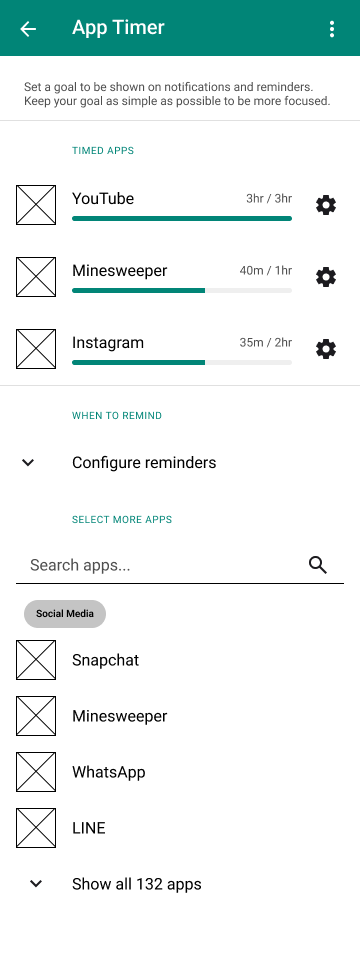
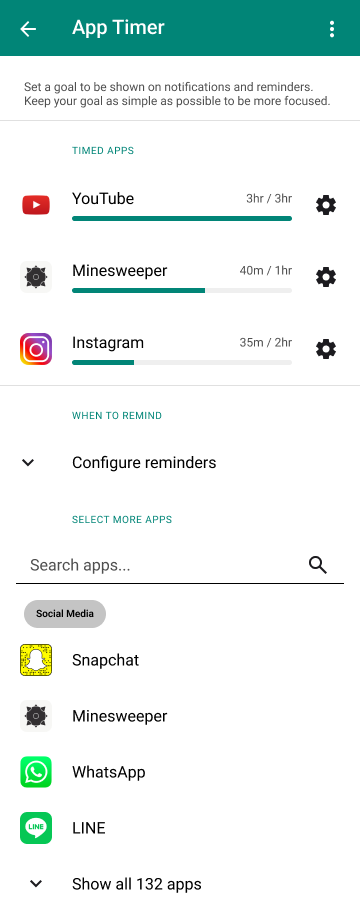
Updated hifi prototype

diff --git a/src/chapters/chapter-4.3.tex b/src/chapters/chapter-4.3.tex
@@ -127,7 +127,7 @@ Berikut ini disebutkan beberapa komponen desain yang sering digunakan pada proto
 Pengembangan prototipe \textit{high-fidelity} ini memiliki beberapa batasan agar pengembangan dapat fokus pada tujuan pengujian. Batasan-batasan pengembangan prototipe \textit{high-fidelity} adalah sebagai berikut
 
 \begin{enumerate}
-  \item Pengembangan prototipe \textit{high-fidelity} akan menggunakan \textit{prototyping tool} Figma.
+  \item Pengembangan prototipe \textit{high-fidelity} akan menggunakan kakas Figma.
   \item Data yang digunakan dalam prototipe berupa \textit{mock data} yang ditentukan oleh desainer.
   \item Prototipe dikembangkan untuk \textit{smartphone} berdimensi layar ukuran 360x800 pixel.
   \item Prototipe tidak mendukung kemampuan untuk input data kustom, bila komponen prototipe ditujukan untuk input data maka data yang ditunjukkan telah ditentukan oleh desainer.
@@ -139,57 +139,132 @@ Pengembangan prototipe \textit{high-fidelity} ini memiliki beberapa batasan agar
 \subsection{Implementasi Prototipe \textit{High-Fidelity}}
 \label{subsec:hifi_1_implementasi}
 
+% Berdasarkan rencana perbaikan pada Tabel \ref{tab:daftar_perbaikan_lofi}, analisis aspek antarmuka, dan batasan pengembangan, maka tampilan-tampilan prototipe \textit{low-fidelity} pada Tabel \ref{tab:daftar_lofi_halaman} dan Tabel \ref{tab:daftar_lofi_widget} akan dikembangkan dan diimplementasi menjadi prototipe \textit{high-fidelity}. Berikut adalah hasil implementasi prototipe \textit{high-fidelity} iterasi pertama.
+
+% \begin{enumerate}
+%   \item Main Menu
+%   \subitem Halaman ini adalah tampilan utama dari aplikasi Digital Wellbeing yang memuat navigasi utama ke fitur-fitur lainnya. Pada prototipe \textit{high-fidelity} terdapat perubahan pada bentuk menu navigasi menjadi lebih bundar agar lebih \textit{user-friendly}. Adapun implementasi ilustrasi untuk menu Focus Mode dan Bedtime Mode, dan ikon-ikon pada menu lainnya, menggantikan \textit{placeholder} pada tampilan \textit{low-fidelity}.
+  
+%   \begin{figure}[h]
+%     \centering
+%     \includegraphics[width=0.3\textwidth]{hifi/h-01}
+%     % \caption{Komponen \textit{dropdown}}
+%     % \label{img:dropdown}
+%   \end{figure}
+%   \FloatBarrier
+
+
+
+% \end{enumerate}
+
+% Tabel \ref{tab:daftar_hifi_halaman} memuat implementasi tampilan halaman prototipe \textit{high-fidelity}, sedangkan Tabel \ref{tab:daftar_hifi_widget} memuat implementasi tampilan untuk widget. Pada kedua tabel tersebut dimuat juga pemetaan prinsip desain tambahan terhadap prototipe \textit{high-fidelity}, serta penjelasan singkat tentang tampilan prototipe \textit{high-fidelity} dan perubahannya dari tampilan prototipe \textit{low-fidelity}.
+
 Berdasarkan rencana perbaikan pada Tabel \ref{tab:daftar_perbaikan_lofi}, analisis aspek antarmuka, dan batasan pengembangan, maka tampilan-tampilan prototipe \textit{low-fidelity} pada Tabel \ref{tab:daftar_lofi_halaman} dan Tabel \ref{tab:daftar_lofi_widget} akan dikembangkan dan diimplementasi menjadi prototipe \textit{high-fidelity}. Tabel \ref{tab:daftar_hifi_halaman} memuat implementasi tampilan halaman prototipe \textit{high-fidelity}, sedangkan Tabel \ref{tab:daftar_hifi_widget} memuat implementasi tampilan untuk widget. Pada kedua tabel tersebut dimuat juga pemetaan prinsip desain tambahan terhadap prototipe \textit{high-fidelity}, serta penjelasan singkat tentang tampilan prototipe \textit{high-fidelity} dan perubahannya dari tampilan prototipe \textit{low-fidelity}.
 
 
 \newlength{\hifiwidth}
 \setlength{\hifiwidth}{0.325\textwidth}
 
+\newlength{\hifidescwidth}
+\setlength{\hifidescwidth}{0.33\textwidth}
+
+\newcommand{\hifidesc}[1]{\desc{\hifidescwidth}{#1}}
+
 \newcommand{\hifi}[1]{\begin{center}\includegraphics[width=\hifiwidth]{#1}\end{center}}
 \newcommand{\hifiwidget}[2]{\begin{center}\includegraphics[width=#1]{#2}\end{center}}
 
 \RaggedLeft
 \begin{footnotesize}
-\begin{longtable}[c]{|>{\ccnormspacingcenter}p{0.12\textwidth}|>{\ccnormspacing}p{0.33\textwidth}|>{\ccnormspacingcenter}p{0.12\textwidth}|>{\ccnormspacingcenter}p{\hifiwidth}|}
+\begin{longtable}[c]{|>{\ccnormspacingcenter}p{0.12\textwidth}|>{\ccnormspacing}p{\hifidescwidth}|>{\ccnormspacingcenter}p{0.12\textwidth}|>{\ccnormspacingcenter}p{\hifiwidth}|}
   \caption{Daftar Tampilan Halaman Prototipe \textit{High-Fidelity}}
   \label{tab:daftar_hifi_halaman} \\
   \hline \rowcolor[HTML]{A3E5F5}
-  \centering\textbf{Halaman} & \centering\textbf{Penjelasan Halaman} & \centering\textbf{Prinsip Desain Tambahan} & \textbf{Prototipe \textit{High-Fidelity}} \\ \hline \endfirsthead
+  \centering\textbf{Halaman} & \centering\textbf{Penjelasan Halaman} & \centering\textbf{\textit{Goals}} & \textbf{Prototipe \textit{High-Fidelity}} \\ \hline \endfirsthead
   \hline \rowcolor[HTML]{A3E5F5}
-  \centering\textbf{Halaman} & \centering\textbf{Penjelasan Halaman} & \centering\textbf{Prinsip Desain Tambahan} & \textbf{Prototipe \textit{High-Fidelity}} \\ \hline \endhead
+  \centering\textbf{Halaman} & \centering\textbf{Penjelasan Halaman} & \centering\textbf{\textit{Goals}} & \textbf{Prototipe \textit{High-Fidelity}} \\ \hline \endhead
   \hline \endfoot
 
-  \textbf{H-01} Halaman Main Menu & Halaman ini adalah tampilan utama dari aplikasi Digital Wellbeing yang memuat navigasi utama ke fitur-fitur lainnya. Pada prototipe \textit{high-fidelity} terdapat perubahan pada bentuk menu navigasi menjadi lebih bundar agar lebih \textit{user-friendly}. Adapun implementasi ilustrasi untuk menu Focus Mode dan Bedtime Mode, dan ikon-ikon pada menu lainnya, menggantikan \textit{placeholder} pada tampilan \textit{low-fidelity}. & - & \hifi{hifi/h-01} \\ \hline
+  \textbf{H-01} Halaman Main Menu & 
+    \hifidesc{
+      Halaman ini adalah tampilan utama dari aplikasi Digital Wellbeing yang memuat navigasi utama ke fitur-fitur lainnya. Pada prototipe \textit{high-fidelity} terdapat perubahan pada bentuk menu navigasi menjadi lebih bundar agar lebih \textit{user-friendly}. Adapun implementasi ilustrasi untuk menu Focus Mode dan Bedtime Mode, dan ikon-ikon pada menu lainnya, menggantikan \textit{placeholder} pada tampilan \textit{low-fidelity}.
+    } & \textit{Motivating} & \hifi{hifi/h-01} \\ \hline
   
-  \textbf{H-02} Halaman Dashboard & Halaman ini memuat seluruh data penggunaan \textit{smartphone}. Pada prototipe \textit{high-fidelity} terdapat penambahan warna untuk \textit{bar chart} agar memperjelas data yang sedang dipilih. Adapun pengubahan desain dari tombol penambahan App Group untuk memberikan perbedaan yang jelas dengan tombol navigasi ke halaman data penggunaan App Group & - & \hifi{hifi/h-02} \\ \hline
+  \textbf{H-02} Halaman Dashboard &
+    \hifidesc{
+      Halaman ini memuat seluruh data penggunaan \textit{smartphone}. Pada prototipe \textit{high-fidelity} terdapat penambahan warna untuk \textit{bar chart} agar memperjelas data yang sedang dipilih. \newline 
+      Adapun pengubahan desain dari tombol penambahan App Group untuk memberikan perbedaan yang jelas dengan tombol navigasi ke halaman data penggunaan App Group
+    }
+  & - & \hifi{hifi/h-02} \\ \hline
   
-  \textbf{H-03} Halaman App Timer & Halaman ini berisi daftar App Timer yang telah dipasang oleh pengguna, dan daftar aplikasi lain. Pada prototipe \textit{high-fidelity}, menu konfigurasi pengingat App Timer disembunyikan di dalam komponen \textit{dropdown} untuk mengurangi kompleksitas visual. Selain itu, ada juga penambahan bagian yang memuat daftar App Group yang sudah dibuat, memindahkan lokasi App Group dari dalam daftar aplikasi. & - & \hifi{hifi/h-03} \\ \hline
+  \textbf{H-03} Halaman App Timer & 
+    \hifidesc{
+      Halaman ini berisi daftar App Timer yang telah dipasang oleh pengguna, dan daftar aplikasi lain. Pada prototipe \textit{high-fidelity}, menu konfigurasi pengingat App Timer disembunyikan di dalam komponen \textit{dropdown} untuk mengurangi kompleksitas visual. Selain itu, ada juga penambahan bagian yang memuat daftar App Group yang sudah dibuat, memindahkan lokasi App Group dari dalam daftar aplikasi.
+    } & - & \hifi{hifi/h-03} \\ \hline
   
-  \textbf{H-04} Halaman Daily Goal & Di halaman ini, pengguna dapat menentukan Daily Goal atau tujuan harian yang ingin ditempuh dan dibantu diingatkan oleh aplikasi Digital Wellbeing. Pada prototipe \textit{high-fidelity} terdapat penambahan penjelasan untuk fitur-fitur pengingat Daily Goal agar lebih mudah untuk dimengerti. Adapun penambahan ikon untuk fitur Daily Goal agar tampilan tidak terasa kaku & - & \hifi{hifi/h-04} \\ \hline
+  \textbf{H-04} Halaman Daily Goal & 
+    \hifidesc{
+      Di halaman ini, pengguna dapat menentukan Daily Goal atau tujuan harian yang ingin ditempuh dan dibantu diingatkan oleh aplikasi Digital Wellbeing. Pada prototipe \textit{high-fidelity} terdapat penambahan penjelasan untuk fitur-fitur pengingat Daily Goal agar lebih mudah untuk dimengerti. Adapun penambahan ikon untuk fitur Daily Goal agar tampilan tidak terasa kaku
+    } & - & \hifi{hifi/h-04} \\ \hline
   
-  \textbf{H-05} Halaman Focus Mode & Halaman ini memuat status dari keberjalanan Focus Mode serta aksi-aksi yang dapat dilakukan untuk menunda, mematikan, atau mengaktivasinya. Pada prototipe \textit{high-fidelity} terdapat penambahan daftar aplikasi untuk memilih aplikasi yang dinilai mendistraksi, daftar ini dapat dimanfaatkan jika pengguna ingin menyalakan fitur Focus Mode tanpa mengikuti jadwal. Adapun pemindahan lokasi navigasi ke halaman penambahan jadwal Focus Mode agar lebih mudah diakses jika terdapat banyak jadwal Focus Mode. & - & \hifi{hifi/h-05} \\ \hline
+  \textbf{H-05} Halaman Focus Mode & 
+    \hifidesc{
+      Halaman ini memuat status dari keberjalanan Focus Mode serta aksi-aksi yang dapat dilakukan untuk menunda, mematikan, atau mengaktivasinya. Pada prototipe \textit{high-fidelity} terdapat penambahan daftar aplikasi untuk memilih aplikasi yang dinilai mendistraksi, daftar ini dapat dimanfaatkan jika pengguna ingin menyalakan fitur Focus Mode tanpa mengikuti jadwal. Adapun pemindahan lokasi navigasi ke halaman penambahan jadwal Focus Mode agar lebih mudah diakses jika terdapat banyak jadwal Focus Mode.
+     } & - & \hifi{hifi/h-05} \\ \hline
   
-  \textbf{H-06} Halaman Bedtime Mode &  Pada halaman ini, pengguna dapat mengatur jadwal aktivasi Bedtime Mode menurut mode perilaku aktivasi yang dipilihnya. Pada prototipe \textit{high-fidelity} terdapat penambahan penjelasan singkat tentang mode aktivasi While Charging, sesuai dengan rencana perbaikan terhadap masalah yang dilaporkan. Adapun penambahan warna aksen terhadap pengaturan jadwal, warna aksen ini sudah menjadi bagian dari aplikasi Digital Wellbeing pada awalnya. Selain itu, menu konfigurasi kemampuan yang aktif saat Bedtime Mode disembunyikan di dalam komponen \textit{dropdown} untuk mengurangi kompleksitas visual. & - & \hifi{hifi/h-06-schedule} \\ \hline
+  \textbf{H-06} Halaman Bedtime Mode &  
+    \hifidesc{
+      Pada halaman ini, pengguna dapat mengatur jadwal aktivasi Bedtime Mode menurut mode perilaku aktivasi yang dipilihnya. Pada prototipe \textit{high-fidelity} terdapat penambahan penjelasan singkat tentang mode aktivasi While Charging, sesuai dengan rencana perbaikan terhadap masalah yang dilaporkan. Adapun penambahan warna aksen terhadap pengaturan jadwal, warna aksen ini sudah menjadi bagian dari aplikasi Digital Wellbeing pada awalnya. Selain itu, menu konfigurasi kemampuan yang aktif saat Bedtime Mode disembunyikan di dalam komponen \textit{dropdown} untuk mengurangi kompleksitas visual.
+    } & - & \hifi{hifi/h-06-schedule} \\ \hline
   
-  \textbf{H-07} Halaman Ringkasan Penggunaan Aplikasi & Halaman ini memuat data penggunaan sebuah aplikasi. Pada prototipe \textit{high-fidelity}, terdapat penambahan ikon pada navigasi App Timer dan pengaturan notifikasi agar tampilan lebih mudah dikenali. & - & \hifi{hifi/h-07} \\ \hline
+  \textbf{H-07} Halaman Ringkasan Penggunaan Aplikasi & 
+    \hifidesc{
+      Halaman ini memuat data penggunaan sebuah aplikasi. Pada prototipe \textit{high-fidelity}, terdapat penambahan ikon pada navigasi App Timer dan pengaturan notifikasi agar tampilan lebih mudah dikenali.
+    } & - & \hifi{hifi/h-07} \\ \hline
   
-  \textbf{H-08} Halaman Ringkasan Penggunaan App Group & Halaman ini memuat data penggunaan dari App Group atau kelompok aplikasi yang ditentukan oleh pengguna. Pada prototipe \textit{high-fidelity}, terdapat penambahan ikon pada navigasi App Timer dan pengaturan App Group agar tampilan lebih mudah dikenali. & - & \hifi{hifi/h-08} \\ \hline
+  \textbf{H-08} Halaman Ringkasan Penggunaan App Group & 
+    \hifidesc{
+      Halaman ini memuat data penggunaan dari App Group atau kelompok aplikasi yang ditentukan oleh pengguna. Pada prototipe \textit{high-fidelity}, terdapat penambahan ikon pada navigasi App Timer dan pengaturan App Group agar tampilan lebih mudah dikenali.
+    } & - & \hifi{hifi/h-08} \\ \hline
   
-  \textbf{H-09} Halaman Pengaturan App Group & Pada halaman ini dapat dilakukan pengaturan terhadap App Group yang dibuat oleh pengguna. Pada prototipe \textit{high-fidelity}, tidak ada perubahan yang cukup signifikan selain pengaplikasian warna. & - & \hifi{hifi/h-09} \\ \hline
+  \textbf{H-09} Halaman Pengaturan App Group & 
+    \hifidesc{
+      Pada halaman ini dapat dilakukan pengaturan terhadap App Group yang dibuat oleh pengguna. Pada prototipe \textit{high-fidelity}, tidak ada perubahan yang cukup signifikan selain pengaplikasian warna.
+    } & - & \hifi{hifi/h-09} \\ \hline
   
-  \textbf{H-10} Halaman Pengaturan Jadwal App Timer & Pada halaman ini dapat dilakukan pengaturan terhadap App Timer aplikasi yang dibuat oleh pengguna. Pada prototipe \textit{high-fidelity} terdapat perubahan tampilan untuk pengaturan App Timer, dengan memberikan elemen untuk mengkonfirmasi pengaturan sesuai dengan rancangan perbaikan dari prototipe \textit{low-fidelity}. Adapun jika belum ada opsi mode aktivasi App Timer, maka tombol konfirmasi pengaturan akan dinonaktifkan. & DP-07 & \hifi{hifi/h-10-daily} \hifi{hifi/h-10-off} \\ \hline
+  \textbf{H-10} Halaman Pengaturan Jadwal App Timer & 
+    \hifidesc{
+      Pada halaman ini dapat dilakukan pengaturan terhadap App Timer aplikasi yang dibuat oleh pengguna. Pada prototipe \textit{high-fidelity} terdapat perubahan tampilan untuk pengaturan App Timer, dengan memberikan elemen untuk mengkonfirmasi pengaturan sesuai dengan rancangan perbaikan dari prototipe \textit{low-fidelity}. Adapun jika belum ada opsi mode aktivasi App Timer, maka tombol konfirmasi pengaturan akan dinonaktifkan.
+    } & DP-07 & \hifi{hifi/h-10-daily} \hifi{hifi/h-10-off} \\ \hline
   
-  \textbf{H-11} Halaman Pengaturan Jadwal Focus Mode & Pada halaman ini, pengguna dapat mengatur hari dan waktu aktivasi dari jadwal Focus Mode yang dibuat pengguna. Pada prototipe \textit{high-fidelity} terdapat penambahan bagian yang memuat daftar App Group yang sudah dibuat, memindahkan lokasi App Group dari dalam daftar aplikasi, agar pengguna lebih mudah dalam memilih sekelompok aplikasi sekaligus. & - & \hifi{hifi/h-11} \\ \hline
+  \textbf{H-11} Halaman Pengaturan Jadwal Focus Mode & 
+    \hifidesc{
+      Pada halaman ini, pengguna dapat mengatur hari dan waktu aktivasi dari jadwal Focus Mode yang dibuat pengguna. Pada prototipe \textit{high-fidelity} terdapat penambahan bagian yang memuat daftar App Group yang sudah dibuat, memindahkan lokasi App Group dari dalam daftar aplikasi, agar pengguna lebih mudah dalam memilih sekelompok aplikasi sekaligus.
+    } & - & \hifi{hifi/h-11} \\ \hline
   
-  \textbf{H-12} Halaman Pengenalan Dashboard & Halaman ini memuat ilustrasi tujuan dari Dashboard dan penjelasan tentang fitur-fitur yang terdapat pada Dashboard. Pada prototipe \textit{high-fidelity} dilakukan perubahan ukuran \textit{font} dari deskripsi agar lebih mudah dibaca. Adapun penambahan ilustrasi agar fitur-fitur yang dijelaskan lebih mudah untuk dipelajari. & - & \hifi{hifi/h-12} \\ \hline
+  \textbf{H-12} Halaman Pengenalan Dashboard & 
+    \hifidesc{
+      Halaman ini memuat ilustrasi tujuan dari Dashboard dan penjelasan tentang fitur-fitur yang terdapat pada Dashboard. Pada prototipe \textit{high-fidelity} dilakukan perubahan ukuran \textit{font} dari deskripsi agar lebih mudah dibaca. Adapun penambahan ilustrasi agar fitur-fitur yang dijelaskan lebih mudah untuk dipelajari.
+    } & - & \hifi{hifi/h-12} \\ \hline
   
-  \textbf{H-13} Halaman Pengenalan App Timer & Halaman ini memuat ilustrasi tujuan dari App Timer dan penjelasan tentang fitur-fitur yang terdapat pada App Timer. Pada prototipe \textit{high-fidelity} dilakukan perubahan ukuran \textit{font} dari deskripsi agar lebih mudah dibaca. Adapun penambahan ilustrasi agar fitur-fitur yang dijelaskan lebih mudah untuk dipelajari. & - & \hifi{hifi/h-13} \\ \hline
+  \textbf{H-13} Halaman Pengenalan App Timer & 
+    \hifidesc{
+      Halaman ini memuat ilustrasi tujuan dari App Timer dan penjelasan tentang fitur-fitur yang terdapat pada App Timer. Pada prototipe \textit{high-fidelity} dilakukan perubahan ukuran \textit{font} dari deskripsi agar lebih mudah dibaca. Adapun penambahan ilustrasi agar fitur-fitur yang dijelaskan lebih mudah untuk dipelajari.
+    } & - & \hifi{hifi/h-13} \\ \hline
   
-  \textbf{H-14} Halaman Pengenalan Goal Reminder & Halaman ini memuat ilustrasi tujuan dari Goal Reminder dan penjelasan tentang fitur-fitur yang terdapat pada Goal Reminder. Pada prototipe \textit{high-fidelity} dilakukan perubahan ukuran \textit{font} dari deskripsi agar lebih mudah dibaca. Adapun penambahan ilustrasi agar fitur-fitur yang dijelaskan lebih mudah untuk dipelajari. & - & \hifi{hifi/h-14} \\ \hline
+  \textbf{H-14} Halaman Pengenalan Goal Reminder & 
+    \hifidesc{
+      Halaman ini memuat ilustrasi tujuan dari Goal Reminder dan penjelasan tentang fitur-fitur yang terdapat pada Goal Reminder. Pada prototipe \textit{high-fidelity} dilakukan perubahan ukuran \textit{font} dari deskripsi agar lebih mudah dibaca. Adapun penambahan ilustrasi agar fitur-fitur yang dijelaskan lebih mudah untuk dipelajari.
+    } & - & \hifi{hifi/h-14} \\ \hline
   
-  \textbf{H-15} Halaman Pengenalan Focus Mode & Halaman ini memuat ilustrasi tujuan dari Focus Mode dan penjelasan tentang fitur-fitur yang terdapat pada Focus Mode. Pada prototipe \textit{high-fidelity} dilakukan perubahan ukuran \textit{font} dari deskripsi agar lebih mudah dibaca. Adapun penambahan ilustrasi agar fitur-fitur yang dijelaskan lebih mudah untuk dipelajari. & - & \hifi{hifi/h-15} \\ \hline
+  \textbf{H-15} Halaman Pengenalan Focus Mode & 
+    \hifidesc{
+      Halaman ini memuat ilustrasi tujuan dari Focus Mode dan penjelasan tentang fitur-fitur yang terdapat pada Focus Mode. Pada prototipe \textit{high-fidelity} dilakukan perubahan ukuran \textit{font} dari deskripsi agar lebih mudah dibaca. Adapun penambahan ilustrasi agar fitur-fitur yang dijelaskan lebih mudah untuk dipelajari.
+    } & - & \hifi{hifi/h-15} \\ \hline
   
-  \textbf{H-16} Halaman Pengenalan Bedtime Mode & Halaman ini memuat ilustrasi tujuan dari Bedtime Mode dan penjelasan tentang fitur-fitur yang terdapat pada Bedtime Mode. Pada prototipe \textit{high-fidelity} dilakukan perubahan ukuran \textit{font} dari deskripsi agar lebih mudah dibaca. Adapun penambahan ilustrasi agar fitur-fitur yang dijelaskan lebih mudah untuk dipelajari. & - & \hifi{hifi/h-16} \\ \hline
+  \textbf{H-16} Halaman Pengenalan Bedtime Mode & 
+    \hifidesc{
+      Halaman ini memuat ilustrasi tujuan dari Bedtime Mode dan penjelasan tentang fitur-fitur yang terdapat pada Bedtime Mode. Pada prototipe \textit{high-fidelity} dilakukan perubahan ukuran \textit{font} dari deskripsi agar lebih mudah dibaca. Adapun penambahan ilustrasi agar fitur-fitur yang dijelaskan lebih mudah untuk dipelajari.
+    } & - & \hifi{hifi/h-16} \\ \hline
 
 \end{longtable}
 \end{footnotesize}
@@ -207,14 +282,27 @@ Berdasarkan rencana perbaikan pada Tabel \ref{tab:daftar_perbaikan_lofi}, analis
   \centering\textbf{ID Widget} & \centering\textbf{Penjelasan Widget} & \centering\textbf{Prinsip Desain Tambahan} & \textbf{Prototipe \textit{Low-Fidelity}} \\ \hline \endhead
   \hline \endfoot
   
-  \textbf{W-01} Widget Dashboard & Widget ini memuat data penggunaan \textit{smartphone}, serta 3 aplikasi dengan penggunaan tertinggi pada hari tersebut. Desain widget pada prototipe \textit{high-fidelity} dibuat menjadi lebih \textit{user-friendly} agar widget dapat lebih berbaur dengan tampilan pada Homescreen.  & - & \hifiwidget{0.2\textwidth}{hifi/w-01} \\ \hline
+  \textbf{W-01} Widget Dashboard & 
+    \hifidesc{
+      Widget ini memuat data penggunaan \textit{smartphone}, serta 3 aplikasi dengan penggunaan tertinggi pada hari tersebut. Desain widget pada prototipe \textit{high-fidelity} dibuat menjadi lebih \textit{user-friendly} agar widget dapat lebih berbaur dengan tampilan pada Homescreen.
+    } & - & \hifiwidget{0.2\textwidth}{hifi/w-01} \\ \hline
 
-  \textbf{W-02} Widget App Timer & Widget ini memuat daftar aplikasi yang telah dipasang App Timer, serta sisa waktu untuk menggunakan aplikasi sebelum aksesnya ditutup. Desain widget pada prototipe \textit{high-fidelity} dibuat menjadi lebih \textit{user-friendly} agar widget dapat lebih berbaur dengan tampilan pada Homescreen.  & - & \hifiwidget{0.325\textwidth}{hifi/w-02} \\ \hline
+  \textbf{W-02} Widget App Timer & 
+    \hifidesc{
+      Widget ini memuat daftar aplikasi yang telah dipasang App Timer, serta sisa waktu untuk menggunakan aplikasi sebelum aksesnya ditutup. Desain widget pada prototipe \textit{high-fidelity} dibuat menjadi lebih \textit{user-friendly} agar widget dapat lebih berbaur dengan tampilan pada Homescreen.
+    } & - & \hifiwidget{0.325\textwidth}{hifi/w-02} \\ \hline
   
-  \textbf{W-03} Widget Focus Mode & Widget ini menampilkan status keberlangsungan dari Focus Mode. Desain widget pada prototipe \textit{high-fidelity} dibuat menjadi lebih \textit{user-friendly} agar widget dapat lebih berbaur dengan tampilan pada Homescreen. Ada juga penambahan interaksi pada widget agar pengguna dapat memanfaatkan lebih banyak fungsionalitas dari Focus Mode. & - & \hifiwidget{0.325\textwidth}{hifi/w-03} \\ \hline
+  \textbf{W-03} Widget Focus Mode & 
+    \hifidesc{
+      Widget ini menampilkan status keberlangsungan dari Focus Mode. Desain widget pada prototipe \textit{high-fidelity} dibuat menjadi lebih \textit{user-friendly} agar widget dapat lebih berbaur dengan tampilan pada Homescreen. Ada juga penambahan interaksi pada widget agar pengguna dapat memanfaatkan lebih banyak fungsionalitas dari Focus Mode.
+    } & - & \hifiwidget{0.325\textwidth}{hifi/w-03} \\ \hline
 
 \end{longtable}
 \end{footnotesize}
 \justifying
 \FloatBarrier
+
+
+% \subsection{Kaitan \textit{Usability Goals} dan \textit{User Experience Goals} dengan Prototipe \textit{High-Fidelity}}
+
 
